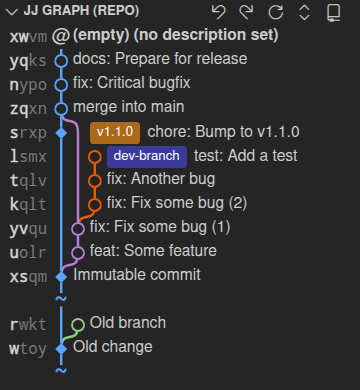
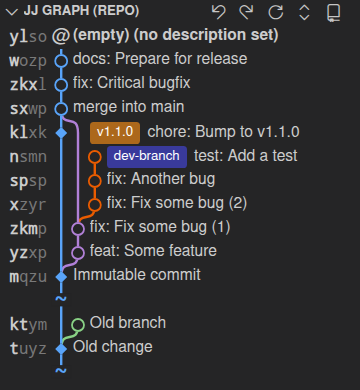
doc: Update screenshots

Changed region(s): [[0.0, 0.0615, 0.1528, 0.7385], [0.0306, 0.8, 0.1222, 0.9231]]

diff --git a/tests-integration/screenshot/screenshot.test.ts b/tests-integration/screenshot/screenshot.test.ts
@@ -4,6 +4,9 @@ import fs from "fs/promises";
 import { execSync } from "child_process";
 import { Page } from "@playwright/test";
 
+TestRepo.userName = "Christoph Dittmann";
+TestRepo.userEmail = "code@yozora.eu";
+
 const TEMP_SCREENSHOT = "/tmp/jjx-screenshot.png";
 const OUTPUT_DIR = path.resolve(__dirname, "..", "..", "images");
 const ZOOM_LEVEL = 1;
@@ -142,7 +145,7 @@ test("take screenshot of jj graph for readme", async ({ userDataDir, graphFrame,
     x: clip.x,
     y: clip.y,
     width: 320,
-    height: 520,
+    height: 400,
   });
 
   // Make the jj graph horizontally larger
@@ -357,9 +360,25 @@ test("take screenshot of bookmark upload", async ({ userDataDir, graphFrame, tes
   };
 
   await screenshot(workbox, "unsynced-bookmark.png", clip);
+
+  await unsyncedPill.click({ button: "right", position: { x: 35, y: 15 } });
+  const deleteBookmarkEntry = graphFrame.locator('.context-menu-item[data-action="deleteRef"]');
+  await expect(deleteBookmarkEntry).toBeVisible();
+
+  const clip2 = {
+    x: scaleToZoomLevel(headerBox.x),
+    y: scaleToZoomLevel(headerBox.y) + 1,
+    width: scaleToZoomLevel(sideBarBox.x + sideBarBox.width - headerBox.x),
+    height: 160,
+  };
+
+  await screenshot(workbox, "bookmark-context-menu.png", clip2);
 });
 
 test("take screenshot of oplog for readme", async ({ userDataDir, scmView, opLog, testRepo, workbox }) => {
+  TestRepo.userName = null;
+  TestRepo.userEmail = null;
+
   await initializeSettings(userDataDir, ZOOM_LEVEL);
   await initializeExampleRepo(testRepo);
 
@@ -392,7 +411,10 @@ test("take screenshot of oplog for readme", async ({ userDataDir, scmView, opLog
   await workbox.mouse.move(sashVCenterX + 300, sashVCenterY);
   await workbox.mouse.up();
 
-  const opLogEntries = opLog.locator(".pane-body").getByRole("treeitem").filter({ hasText: /jj.* commit -m 'docs/ });
+  const opLogEntries = opLog
+    .locator(".pane-body")
+    .getByRole("treeitem")
+    .filter({ hasText: /jj.* commit -m 'docs/ });
   await expect(opLogEntries).toHaveCount(2);
   await opLogEntries.first().hover();
 

diff --git a/src/webview/graph/components/pill-context-menu.tsx b/src/webview/graph/components/pill-context-menu.tsx
@@ -30,6 +30,7 @@ export function PillContextMenu() {
           <div
             key={remote}
             class="context-menu-item"
+            data-action="pushBookmark"
             onClick={() => {
               vscode.postMessage({ command: "pushBookmarkToRemote", bookmark: state.name, remote });
               pillContextMenu.value = null;
@@ -41,6 +42,7 @@ export function PillContextMenu() {
       {isBookmark && state.remotes && state.remotes.length > 0 && <div class="context-menu-separator"></div>}
       <div
         class="context-menu-item"
+        data-action="deleteRef"
         onClick={() => {
           vscode.postMessage({ command: deleteCommand, ...deletePayload });
           pillContextMenu.value = null;

diff --git a/README.md b/README.md
@@ -85,11 +85,10 @@ Jujutsu X is based on [Jujutsu Kaizen](https://github.com/keanemind/jjk).
 - Move bookmarks via drag&drop
 - Upload a bookmark to all its tracking remotes with a single click  
   ![unsynced bookmark](images/unsynced-bookmark.png)
-- Right-click the upload button to upload to specific remotes
+- Right-click to upload a bookmark to specific remotes or to delete a bookmark/tag  
+  ![bookmark context menu](images/bookmark-context-menu.png)
 - Set and delete tags
-- Right click on a bookmark or tag to delete it
 - Show conflicted bookmarks and tags with `??` suffix
-- Show out-of-sync bookmarks and tags with `*` suffix
 
 ### 💼 Multi-Workspace support
 
